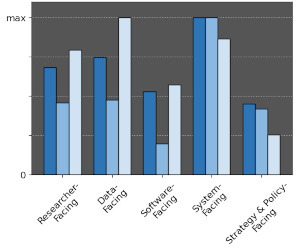
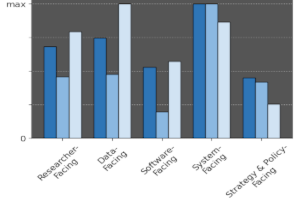
Lots of cleanup getting ready for Viz portal release

Changed region(s): [[0.0, 0.0, 0.99, 0.9851], [0.12, 0.209, 0.24, 0.4179], [0.09, 0.5075, 0.12, 0.5672]]

diff --git a/nexus/static/css/base.css b/nexus/static/css/base.css
@@ -242,7 +242,6 @@ main div.cardbutton {
     margin-left: auto;
     margin-right: auto; 
     margin-bottom: 8px; 
-    width: 12em;
 }
 main img.cardcontent {  
     display: table-cell;
@@ -254,12 +253,18 @@ main img.cardcontent {
     border: none;
     border-radius: 8px;
     box-shadow: 0 3px 5px rgba(0, 0, 0, 0.18);
-
     cursor: pointer;
 }
 
-main a.cardbutton {  
-    display: table-cell;
+main div.cardbutton img.cardcontent { 
+    display: block;
+    width:90%;
+    padding: 4px 10px;
+}
+
+main a.cardbutton, main div.cardbutton a p.cardbutton {  
+    display: block;
+    width: 12em;
     text-align: center;
     vertical-align: middle;
     padding: 10px 20px;
@@ -281,11 +286,11 @@ main a.cardbutton {
     cursor: pointer;
     transition: 220ms all ease-in-out;    
 }
-main a.cardbutton:hover {  
+main a.cardbutton:hover, main div.cardbutton a p.cardbutton:hover {  
     background-color: var(--secondary-emphasis);
 }
 
-main a.cardbutton:focus {
+main a.cardbutton:focus, main div.cardbutton a p.cardbutton:focus {
     outline-style: solid;
     outline-color: transparent;
     box-shadow: 0 0 0 4px var(--accent);

diff --git a/nexus/templates/index.html b/nexus/templates/index.html
@@ -39,10 +39,12 @@ main {
     </section>
     <section class="card">
         <h2>Browse Data</h2>
-        <p>You may also view our limited public datasets without logging in <em>(coming soon)</em>.</p>
+        <p style="margin-bottom: 0px;">You may also view the public portions of the Community Dataset without logging in.</p>
         <div class="cardbutton">
-            <!-- <a class="cardbutton" href="{ url 'capabilities:explore' }">Explore public data</a> -->
-            <a class="cardbutton NYI" href="">Explore public data</a>
+            <a href="{%comment%}/dataviz{%endcomment%}">
+                <img class="cardcontent" src="/static/images/epscor_DFTopicsCardImg.png" alt="Graph showing distribution of community contributors">
+                <p class="cardbutton" style="margin-top: 1em;">Explore public data</p>
+            </a>
         </div>
     </section>
 </div>

diff --git a/nexus/templates/dataviz/prioritiesdata.html b/nexus/templates/dataviz/prioritiesdata.html
@@ -10,7 +10,9 @@
 
 {% block main %}
 <h2 id="CMGraphTitle">{%if graphtitle %}{{ graphtitle|safe }}{%else%}Priorities Data{%endif%}</h2>
-<div id="canvas" class="viz">{%if graph %}{{ graph|safe }}{%endif%}</div>
+<div id="canvas" class="viz">{%if graph %}{{ graph|safe }}{%else%}
+    <p style="margin:3em auto;">Note: This feature is still under development and will be included in a future release.</p>{%endif%}</div>
+
 <script>
     initDetailsFromStorage();
 </script>

diff --git a/nexus/templates/dataviz/vizmain.html b/nexus/templates/dataviz/vizmain.html
@@ -29,7 +29,7 @@ main {
         <h2>Capabilities Data and Benchmarking</h2>
         <div class="imgcard">
             <a href="{% url 'dataviz:capsmodeldata' %}">
-                <img class="cardcontent" src="/static/images/epscor_DFTopicsCardImg.png" alt="Map showing distribution of community contributors">
+                <img class="cardcontent" src="/static/images/epscor_DFTopicsCardImg.png" alt="Bar graph showing example capabilities model data">
             </a>
         </div>
     </section>
@@ -37,7 +37,7 @@ main {
         <h2>Priorities Data</h2>
         <div class="imgcard">
             <a href="{% url 'dataviz:prioritiesdata' %}">
-                <img class="cardcontent" src="/static/images/prioDistCardImg.png" alt="Map showing distribution of community contributors">
+                <img class="cardcontent" src="/static/images/prioDistCardImg.png" alt="Bar graph showing example capabilities model priorities data">
             </a>
         </div>
     </section>

diff --git a/nexus/templates/base/footer.html b/nexus/templates/base/footer.html
@@ -1,4 +1,4 @@
-<p><span class="avoidwrap">©2023 <a href="https://internet2.edu/community/research-engagement/" target="_blank">Internet2</a>
+<p><span class="avoidwrap">©2023-{% now "Y" %} <a href="https://internet2.edu/community/research-engagement/" target="_blank">Internet2</a>
      and <a href="https://carcc.org" target="_blank">CaRCC</a>, and licensed for use under</span>
     <span class="avoidwrap">Creative Commons Attribution-NoDerivatives 4.0 International (CC BY-ND 4.0) license.</span>
         <span class="avoidwrap noprint">&nbsp;&nbsp;&nbsp;Powered by 

diff --git a/nexus/templates/dataviz/scatterplots.html b/nexus/templates/dataviz/scatterplots.html
@@ -11,6 +11,7 @@
 {% block main %}
 <h2 id="CMGraphTitle">{%if graphtitle %}{{ graphtitle|safe }}{%else%}CapsModel Data{%endif%}</h2>
 <div id="canvas" class="viz">{%if graph %}{{ graph|safe }}{%endif%}</div>
+<p class="viz_footnote">Note: Each vertical set/stripe is an institution (in no particular order), and each dot is the rolled up coverage for the associated Facing. </p>
 <script>
     initDetailsFromStorage();
 </script>

diff --git a/nexus/views/dataviz.py b/nexus/views/dataviz.py
@@ -333,14 +333,13 @@ def data_viz_capsmodeldata(request):
                 if not request.user.is_authenticated:           # Just for safety
                     messages.info(request, f"You must be logged in to use benchmarking.")
                 else:
-                    print('Looking for approved assessment...')
-                    membership = request.user.rcd_profile_memberships.filter(
-                            profile__capabilities_assessment__review_status=CapabilitiesAssessment.ReviewStatusChoices.APPROVED,
-                             role__in=view_roles).order_by('-profile__year').first()
-                    if membership is None or membership.profile.archived:
+                    # print('Looking for approved assessment...')
+                    bmProfile = RCDProfile.objects.filter_can_view(request.user).exclude(archived=True)\
+                        .filter(capabilities_assessment__review_status=CapabilitiesAssessment.ReviewStatusChoices.APPROVED).order_by('-year').first()
+                    if bmProfile is None:
                         messages.info(request, f"You must have view rights on an approved assessment to use benchmarking.")
                     else:
-                        benchmarkAssessment = membership.profile.capabilities_assessment
+                        benchmarkAssessment = bmProfile.capabilities_assessment
 
             if benchmarkAssessment:
                 benchmarkInfo = getInstAverages(benchmarkAssessment, facing)

diff --git a/nexus/views/capmodel.py b/nexus/views/capmodel.py
@@ -87,7 +87,7 @@ def assessment(request, profile_id):
                 else :
                     answers.coverage_pct = "-"
             else:
-                agg = answers.aggregate_score()  # TODO BUG need to use answers.filter(not_applicable=False)
+                agg = answers.filter(not_applicable=False).aggregate_score()
                 coverage = agg["average"]
                 coverage = min(1.0, max(0.0, coverage))
                 if coverage != None:
@@ -105,9 +105,9 @@ def assessment(request, profile_id):
                     answers.coverage_pct = "-"
                     answers.coverage_color = None
         if nTopicsComplete == nTopicsRequired:
-            # TODO - This is not a good way to compute the facing average, as it does not weight all answers the same
-            # Try getting facing.items, and then aggregate that to get average
-            facingCov = aggSum/nTopicsRequired
+            # For the Facing coverage, get the aggregate average of all questions in the Facing that are not marked N/A
+            facingAnswers = assessment.answers.filter(question__topic__facing=facing).filter(not_applicable=False)
+            facingCov = facingAnswers.aggregate_score()["average"]
             covstring = format(facingCov, ".1%" if facingCov<1.0 else ".0%")
             facing.coverage_pct = mark_safe(f"{covstring}")
             facing.coverage_color = compute_answer_color(facingCov)
@@ -237,7 +237,7 @@ def topic(request, profile_id, facing, topic):
     coverage_pct = None
     coverage_color = None
     if all_answered:
-        agg = answers.aggregate_score()  # TODO BUG need to use answers.filter(not_applicable=False)
+        agg = answers.filter(not_applicable=False).aggregate_score()
         coverage = agg["average"]
         if coverage != None:
             coverage = min(1.0, max(0.0, coverage))

diff --git a/nexus/forms/dataviz.py b/nexus/forms/dataviz.py
@@ -159,7 +159,9 @@ class DataFilterForm(forms.Form):
     # Omit the "Population" choice when viewing contributor data
     INCLUDE_ALL_CONTRIBS={CARN_CLASS, MISSION, PUB_PRIV, EPSCOR, MSI, SIZE, BY_YEAR, REGION, RESEARCH_EXP}
     # Omit the "Population" choice when viewing contributor data, and add the detail views
-    CAPS_DATA_INCLUDE_ALL={CARN_CLASS, MISSION, PUB_PRIV, EPSCOR, MSI, SIZE, BY_YEAR, REGION, RESEARCH_EXP, CHART_VIEWS, FACINGS, CAPS_FEATURE, BENCHMARK}
+    # Omit CAPS_FEATURE since NYI in current release
+    # CAPS_DATA_INCLUDE_ALL={CARN_CLASS, MISSION, PUB_PRIV, EPSCOR, MSI, SIZE, BY_YEAR, REGION, RESEARCH_EXP, CHART_VIEWS, FACINGS, CAPS_FEATURE, BENCHMARK}
+    CAPS_DATA_INCLUDE_ALL={CARN_CLASS, MISSION, PUB_PRIV, EPSCOR, MSI, SIZE, BY_YEAR, REGION, RESEARCH_EXP, CHART_VIEWS, FACINGS, BENCHMARK}
     CAPS_DATA_EXCLUDE_NO_DATA_CONTRIB={CAPS_FEATURE, BENCHMARK}
 
     population = forms.ChoiceField(

diff --git a/nexus/utils/cmgraphs.py b/nexus/utils/cmgraphs.py
@@ -227,8 +227,7 @@ def getAllAnswers(years=None) :
     #print("getAllAnswers found: ",profiles.count()," distinct non-superseded profiles")
     answers = CapabilitiesAnswer.objects.filter(assessment__profile__in=profiles)
     # Get only the main answers (skip the domain coverage ones)
-    # TODO BUG need to use answers.filter(not_applicable=False)
-    answers = answers.exclude(question__topic__slug=CapabilitiesTopic.domain_coverage_slug)
+    answers = answers.filter(not_applicable=False).exclude(question__topic__slug=CapabilitiesTopic.domain_coverage_slug)
     #print(answers.count())
     instCount = answers.values('assessment__id').distinct().count()
 